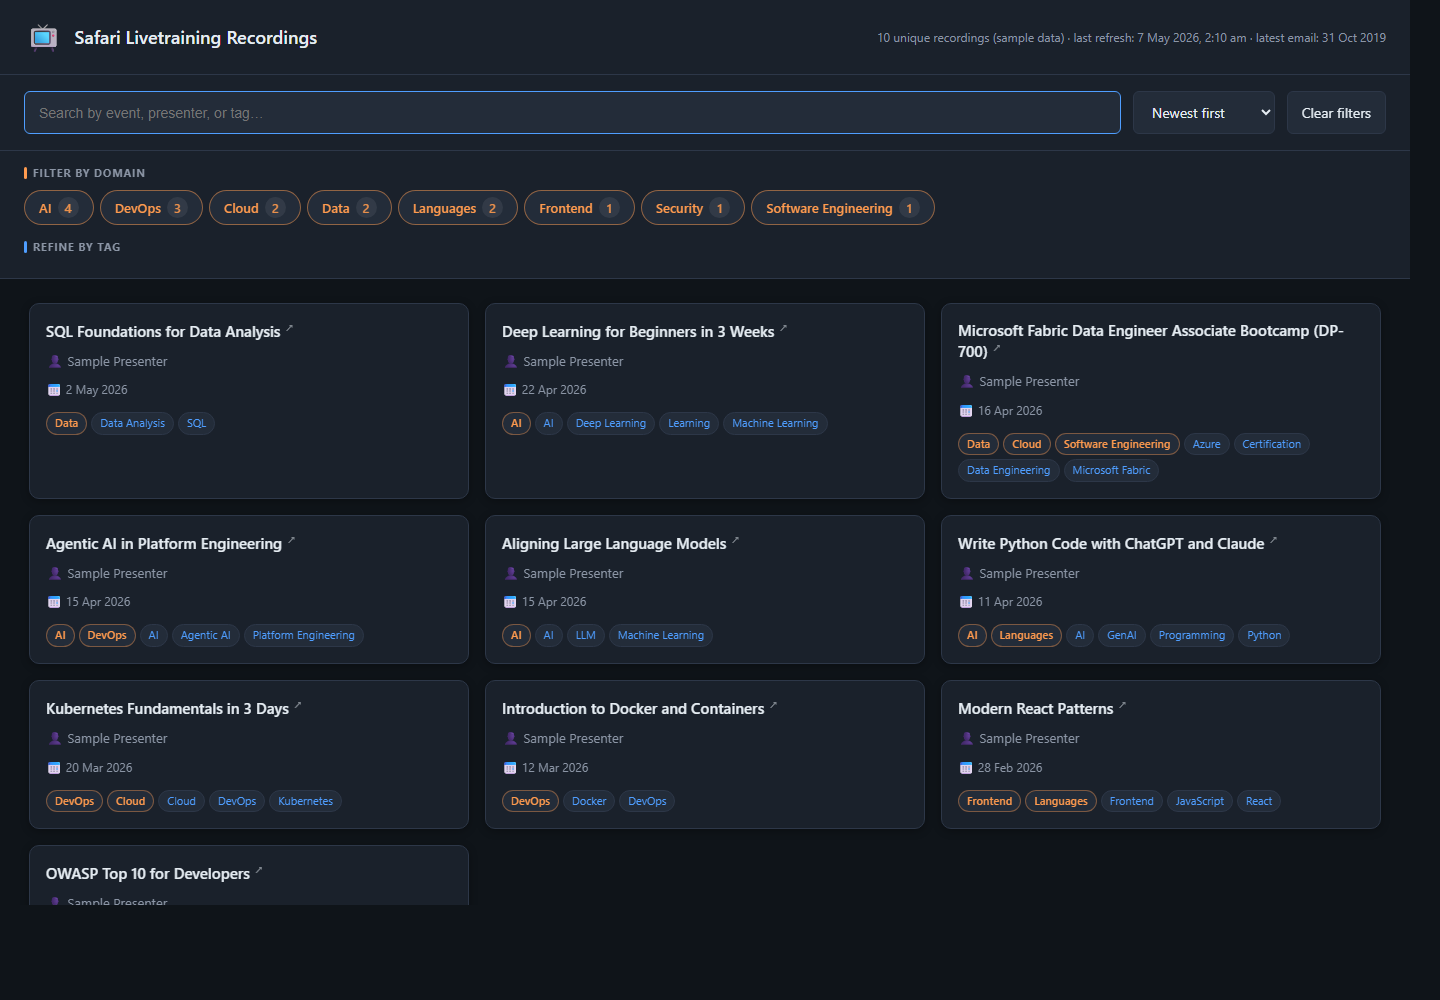
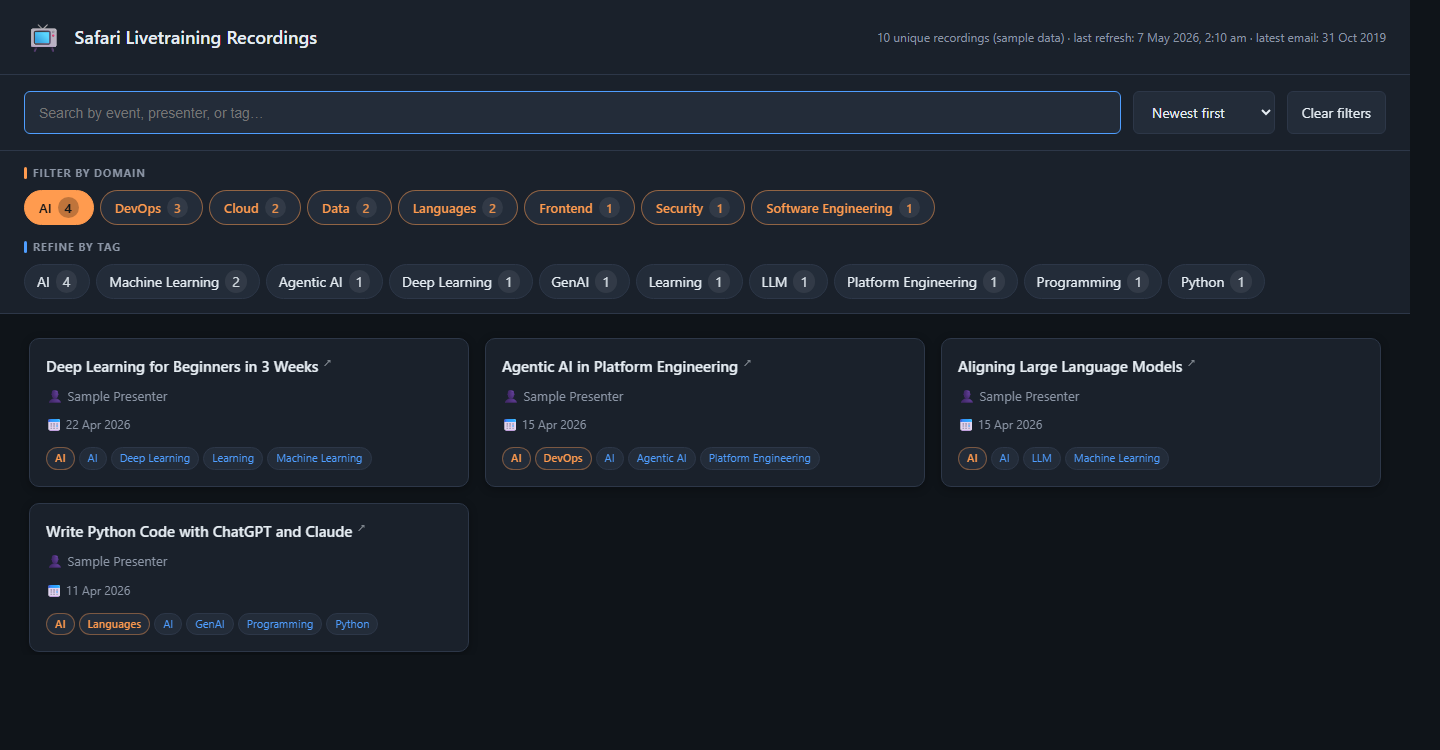
Add deep-linkable filter URLs and refresh preview screenshot
- app.js: new applyHashFilters() reads the URL hash on load and pre-applies
  domains, tags, and the search query, e.g.
    #domain=AI
    #domain=Cloud,DevOps&tag=Kubernetes
    #q=react
- README: document the new shareable filter URLs
- docs/preview.png: refreshed screenshot now demonstrates the two-tier
  filtering (AI domain selected -> AI-specific sub-tag chips revealed)
  using the bundled sample data

diff --git a/app.js b/app.js
@@ -131,8 +131,22 @@ async function load() {
     }
   } catch {}
   $("meta").textContent = meta;
+  applyHashFilters();
   renderFilters();
   render();
+}
+
+function applyHashFilters() {
+  const h = (location.hash || "").replace(/^#/, "");
+  if (!h) return;
+  for (const part of h.split("&")) {
+    const [k, v] = part.split("=");
+    if (!v) continue;
+    const vals = decodeURIComponent(v).split(",").filter(Boolean);
+    if (k === "domain") for (const d of vals) state.domains.add(d);
+    else if (k === "tag") for (const t of vals) state.tags.add(t);
+    else if (k === "q") { state.q = decodeURIComponent(v); const s = $("search"); if (s) s.value = state.q; }
+  }
 }
 
 document.addEventListener("DOMContentLoaded", () => {

diff --git a/README.md b/README.md
@@ -203,6 +203,11 @@ emails are re‑parsed.
 - **No build step.** Just static `index.html` + `app.js` + `styles.css`.
 - **No‑cache server** (`scripts/serve.py`) so edits to the SPA are picked up
   on the next browser refresh — no hard‑refresh needed.
+- **Shareable filter URLs.** Filters can be pre-applied via the URL hash, so
+  you can bookmark or share a filtered view:
+  - `…/#domain=AI` — pre-select the AI domain
+  - `…/#domain=Cloud,DevOps&tag=Kubernetes` — multiple domains and a tag
+  - `…/#q=react` — pre-fill the search box
 
 ---
 